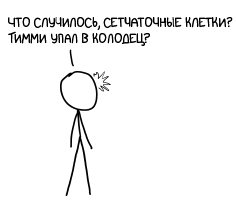
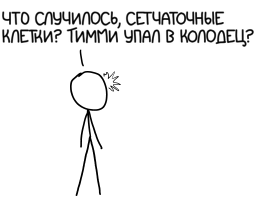
Fixed typos and images for Into the Sun

Changed region(s): [[0.0, 0.0293, 1.0, 0.2341], [0.2373, 0.2341, 0.4746, 0.9659]]

diff --git a/content/what-if/115-into-the-sun.md b/content/what-if/115-into-the-sun.md
@@ -18,9 +18,10 @@ Image: http://chtoes.li/uploads/115-into-the-sun/front.png
 Температура на поверхности Солнца приблизительно 5&thinsp;800 K[^1], плюс-минус. Если пробыть там какое-то время, вы превратитесь в пепел, но наносекунда — это не так уж долго. За это время свет успеет пройти почти ровно один фут[^2].
 
 [^1]: Или °C. Когда в значении температуры много цифр, это уже не важно.
-[^2]: Световая наносекунда — это 0.29981 метра, что возмутительно близко к футу. Я думаю, неплохо было бы переопределить фут как ровно 1 световую наносекунду. Ведь в мире так не хватает путаницы с единицами.
+[^2]:
+    Световая наносекунда — это 0,29981 метра, что возмутительно близко к футу. Я думаю, неплохо было бы переопределить фут как ровно 1 световую наносекунду. Ведь в мире так не хватает путаницы с единицами.
 
-Это поднимет очевидные вопросы вроде «Переопределять ли нам и милю, чтобы она продолжала равняться 5&thinsp;280 футам?» и «Переопределять ли дюйм?» и «Постойте, *зачем* мы этим занимаемся?». Но кто-нибудь с этим разберется, думаю. Я здесь просто подбрасываю идеи.
+    Это поднимет очевидные вопросы вроде «Переопределять ли нам и милю, чтобы она продолжала равняться 5&thinsp;280 футам?» и «Переопределять ли дюйм?» и «Постойте, *зачем* мы этим занимаемся?». Но кто-нибудь с этим разберется, думаю. Я здесь просто подбрасываю идеи.
 
 ![](/uploads/115-into-the-sun/foot_ru.png "Программист-первопроходец Грейс Хоппер на своих презентациях раздавала слушателям «наносекунды проволоки» и показывала их контраст с громадной катушкой, изображавшей микросекунду проволоки.")
 
@@ -40,33 +41,34 @@ Image: http://chtoes.li/uploads/115-into-the-sun/front.png
 
 Вы проведете на Солнце наносекунду, но ваш мозг заметит это только через 30&thinsp;000&thinsp;000 наносекунд. Вы увидите только вспышку. Она продлится гораздо дольше, чем ваше пребывание на Солнце, и угаснет только после того, как успокоятся клетки сетчатки.
 
-Кожа поглотит совсем немного энергии — примерно 10<sub>-5</sub> джоулей на см<sub>2</sub> незакрытой кожи. Для сравнения, по станадрту IEEE P1584, [процитированному](http://www.arcadvisor.com/faq/threshold-incident-energy-second-degree-burn.html) на ArcAdvisor.com, секунда в синем окислительном пламени бутановой горелки дает пальцу 5 джоулей на см<sub>2</sub> кожи, что грозит ожогом второй степени. Тепла, полученного за время вашего путешествия на Солнце, будет на пять порядков меньше. Вы не заметите ничего, кроме слабой вспышки.
+Кожа поглотит совсем немного энергии — примерно 10<sup>-5</sup> джоулей на см<sup>2</sup> незакрытой кожи. Для сравнения, по стандарту IEEE P1584, [процитированному](http://www.arcadvisor.com/faq/threshold-incident-energy-second-degree-burn.html) на ArcAdvisor.com, секунда в синем окислительном пламени бутановой горелки дает пальцу 5 джоулей на см<sup>2</sup> кожи, что грозит ожогом второй степени. Тепла, полученного за время вашего путешествия на Солнце, будет на пять порядков меньше. Вы не заметите ничего, кроме слабой вспышки.
 
 Но что, если у вас сбились координаты?
 
-Поверхность Солнца относительно прохладная. Тут, конечно, пожарче, чем, скажем, в Финиксе,<sup>[[источник?](https://www.google.com/search?tbm=isch&q=корт+источник)]</sup>, но по сравнению с ядром — прямо-таки холодно. На поверхности несколько тысяч градусов, а внутри — несколько *миллионов*[^4]. Что, если провести наносекунду *там*?
+Поверхность Солнца относительно прохладная. Тут, конечно, пожарче, чем, скажем, в Финиксе<sup>[[источник?](https://www.google.com/search?tbm=isch&q=корт+источник)]</sup>, но по сравнению с ядром — прямо-таки холодно. На поверхности несколько тысяч градусов, а внутри — несколько *миллионов*[^4]. Что, если провести наносекунду *там*?
 
 [^4]: Корона — разреженный газ над поверхностью — *тоже* разогрета до нескольких миллионов градусов, и [никто не знает, почему](https://ru.wikipedia.org/wiki/Солнечная_корона#.D0.9F.D1.80.D0.BE.D0.B1.D0.BB.D0.B5.D0.BC.D0.B0_.D0.BD.D0.B0.D0.B3.D1.80.D0.B5.D0.B2.D0.B0_.D1.81.D0.BE.D0.BB.D0.BD.D0.B5.D1.87.D0.BD.D0.BE.D0.B9_.D0.BA.D0.BE.D1.80.D0.BE.D0.BD.D1.8B).
 
-![](/uploads/115-into-the-sun/want.png "Частичное солнечное затмение — это когда Земля проходит перед областью Солнца, скрытой очками.")
+![](/uploads/115-into-the-sun/want_ru.png "Частичное солнечное затмение — это когда Земля проходит перед областью Солнца, скрытой очками.")
 
 По [закону Стефана — Больцмана](http://hyperphysics.phy-astr.gsu.edu/hbase/thermo/stefan.html) можно рассчитать, сколько тепла на вас обрушится, пока вы будете внутри Солнца[^5]. И расклад не самый удачный. Норма IEEE P1584B для ожогов второй степени будет превышена после одной *фемто*секунды в Солнце[^6]. Наносекунда — время, которое вы там проведете — равна 1&thinsp;000&thinsp;000 фемтосекунд. Добром это не кончится.
 
-[^5]: Кроме всего прочего, есть еще прямое воздействие летающих вокруг тяжелых частиц, протонов и прочих, но излучение внесет решающий вклад.
+[^5]:
+    Кроме всего прочего, есть еще прямое воздействие летающих вокруг тяжелых частиц, протонов и прочих, но излучение внесет решающий вклад.
 
-Я обману систему и задам собственный вопрос: как вообще работают эти наши перемещения?
+    Я обману систему и задам собственный вопрос: как вообще работают эти наши перемещения?
 
-Процесс телепортации, по идее, каким-то образом избавляется от вещества в конечной точке маршрута, чтобы не смешать путешественника с тем, что было на его месте раньше. Проще всего было бы обменивать материю между двумя точками. Капитан Кирк перемещается на планету, а порция воздуха Капитан-Кирковского объема перемещается на Энтерпрайз.
+    Процесс телепортации, по идее, каким-то образом избавляется от вещества в конечной точке маршрута, чтобы не смешать путешественника с тем, что было на его месте раньше. Проще всего было бы обменивать материю между двумя точками. Капитан Кирк перемещается на планету, а порция воздуха Капитан-Кирковского объема перемещается на Энтерпрайз.
 
-Итак, что же произойдет, если часть солнечного ядра размером с Эй-Джея переместится в заснеженный Колорадо и останется там?
+    Итак, что же произойдет, если часть солнечного ядра размером с Эй-Джея переместится в заснеженный Колорадо и останется там?
 
-Протоны внутри Солнца мечутся со скоростью примерно 350 км/с (что по [странным и глубинным] (https://ru.wikipedia.org/wiki/Вириал#.D0.A2.D0.B5.D0.BE.D1.80.D0.B5.D0.BC.D0.B0_.D0.BE_.D0.B2.D0.B8.D1.80.D0.B8.D0.B0.D0.BB.D0.B5) причинам составляет приблизительно половину второй космической скорости для Солнца на этой глубине). Освободившись от своего раскаленного соседства, все протоны хлынут наружу, распространяя вокруг световую и тепловую энергию. Величина этой энергии будет находиться где-то между здоровенной бомбой и небольшим ядерным оружием.
+    Протоны внутри Солнца мечутся со скоростью примерно 350 км/с (что по [странным и глубинным](https://ru.wikipedia.org/wiki/Вириал#.D0.A2.D0.B5.D0.BE.D1.80.D0.B5.D0.BC.D0.B0_.D0.BE_.D0.B2.D0.B8.D1.80.D0.B8.D0.B0.D0.BB.D0.B5) причинам составляет приблизительно половину второй космической скорости для Солнца на этой глубине). Освободившись от своего раскаленного соседства, все протоны хлынут наружу, распространяя вокруг световую и тепловую энергию. Величина этой энергии будет находиться где-то между здоровенной бомбой и небольшим ядерным оружием.
 
 [^6]: Хотя это не будет считаться ожогом второй степени, пока не пройдет еще несколько пикосекунд, поскольку определение ожога второй степени подразумевает повреждения нижележащих слоев ткани. Чтобы добраться до них, первых нескольких фемтосекунд свету не хватит.
 
 Есть и хорошие новости: глубоко внутри Солнца фотоны, переносящие энергию, имеют очень малую длину волны — в большинстве своем они являются смесью из того, что можно назвать жестким и мягким рентгеновским излучением[^7]. А это значит, что они проникнут в ваше тело на разные глубины, разогреют внутренние органы и ионизируют ДНК, нанеся тем самым необратимый урон еще до того, как обжечь вас. Вот я оглядываюсь и вижу, что начал этот абзац словами «есть и хорошие новости». Не знаю, зачем я так поступил.
 
-[^7]: <намек_на_книгу_что_если>Интересно, чего во Вселенной больше: фотонов мягкого рентгеновского излучения или жесткого?</намек_на_книгу_что_если>
+[^7]: <намек_на_книгу_что_если>Интересно, чего во Вселенной больше: фотонов мягкого рентгеновского излучения или жесткого?</намек_на_книгу_что_если> 
 
 ![](/uploads/115-into-the-sun/hope_ru.png "Я просто надеялся, что ли.")
 
